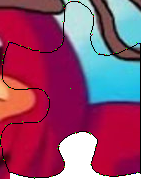
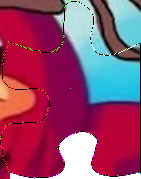
separate sides

diff --git a/findcorner.py b/findcorner.py
@@ -1,11 +1,20 @@
 import cv2
 import numpy as np
 import os
+import math
+
+sideColor=[(39,253,61),(39,54,253),(240,8,225),(240,155,8),(255,255,255)]
 
 def distpp(p1,p2):
     return (p1[0]-p2[0])*(p1[0]-p2[0])+(p1[1]-p2[1])*(p1[1]-p2[1])
 
-    
+def isAngle(x,y,angles):
+    for index ,a in enumerate(angles):
+        if(math.sqrt(pow(x-a[0],2)+pow(y-a[1],2)) <5):
+            angles.pop(index)
+            return True
+    return False
+
 def findangle(datas, w, h):
     angles = []
     c1 = (0, 0)
@@ -78,11 +87,27 @@ def workimg(path):
             break
         except:   
             factor = factor + 0.02
-    cornersint = np.int0(corners)
+    cornersint = np.int0(centroids)
     height, width = img.shape[:2]
     angles=findangle(cornersint, width, height)
     posx, posy = zip(*angles)
-    img[posy[:], posx[:]] = [255,0,0]
+    
+    #side separation
+    sides=[]
+    currentside=0
+    sides.append([])
+    #make a list with angles
+    for x in range(0,contours[0].size // 2):
+        if(isAngle(contours[0][x][0][0],contours[0][x][0][1],angles)):
+            sides[currentside].append(contours[0][x][0])
+            currentside = currentside +1
+            sides.append([])
+        else:
+            sides[currentside].append(contours[0][x][0])
+
+    for l in range(0,len(sides)):
+        for s in sides[l]:
+            img[s[1],s[0]]=sideColor[l]
     cv2.imwrite("im2/"+path,img)
 
 def main():
